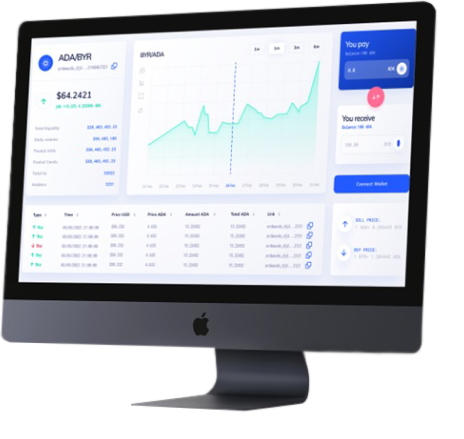
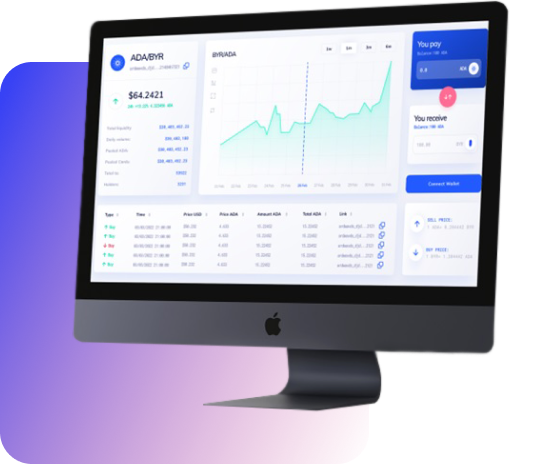
finishing website without backgrounds: Partenrs, StickyText, Footer

diff --git a/src/components/Footer.tsx b/src/components/Footer.tsx
@@ -1,0 +1,106 @@
+import React from 'react';
+import styled from 'styled-components';
+
+import fida from 'assets/logos/fida.png';
+import linkedin from 'assets/icons/socials/linkedin.png';
+import telegram from 'assets/icons/socials/telegram.png';
+import twitter from 'assets/icons/socials/twitter.png';
+import whatsApp from 'assets/icons/socials/whatsApp.png';
+import { menuItems } from 'data/menuItems';
+
+import { colors } from 'theme';
+
+import { MenuButton } from './MenuButton';
+import { Text } from './_common/Text';
+
+const socials = [{
+  src: twitter,
+  name: 'twitter',
+  link: '#'
+}, {
+  src: telegram,
+  name: 'telegram',
+  link: '#'
+}, {
+  src: linkedin,
+  name: 'linkedin',
+  link: '#'
+}, {
+  src: whatsApp,
+  name: 'whatsApp',
+  link: '#'
+}];
+
+const text = {
+  frida: '©Fida 2023'
+};
+
+export const Footer = () => {
+  const { iterableItems, joinCommunity } = menuItems;
+
+  return (
+    <FooterWrapper>
+      <LogoWrapper>
+        <img src={fida} alt="fida logo" />
+      </LogoWrapper>
+      <MenuButtonsWrapper>
+        <IterableButtonsWrapper>
+          {iterableItems.map(({ label, link }) => (
+            <div className="mr-5 flex align-items-center">
+              <StyledLink href={link}>
+                <Text size={16} label={label} fontWeight={700} toUpperCase />
+              </StyledLink>
+            </div>
+          ))}
+        </IterableButtonsWrapper>
+        <MenuButton label={joinCommunity.label} link={joinCommunity.link} backgroundColor={colors.textGradient} />
+      </MenuButtonsWrapper>
+      <SocialsWrapper>
+        {socials.map(({ name, link, src }) => (
+          <div className="mr-5">
+            <a href={link}>
+              <img src={src} alt={name} />
+            </a>
+          </div>
+        ))}
+      </SocialsWrapper>
+      <RadiantBar />
+      <div className="pb-5">
+        <Text size={14} label={text.frida} fontWeight={400} />
+      </div>
+    </FooterWrapper>
+  );
+};
+
+const FooterWrapper = styled.div`
+    display: flex;
+    padding: 0 30px;
+    flex-direction: column;
+    max-width: 80%;
+    margin: 0 auto;
+`;
+const LogoWrapper = styled.div`
+    margin-bottom: 24px;
+`;
+const MenuButtonsWrapper = styled.div`
+    display: flex;
+    justify-content: space-between;
+    margin-bottom: 34px;
+`;
+const IterableButtonsWrapper = styled.div`
+    display: flex;
+    
+`;
+const StyledLink = styled.a`
+    text-decoration: none;
+`;
+const SocialsWrapper = styled.div`
+    display: flex;
+    margin-bottom: 18px;
+`;
+const RadiantBar = styled.div`
+    width: 100%;
+    margin: 0 auto 24px 0;
+    height: 2px;
+    background: ${colors.textGradient};
+`;

diff --git a/src/components/MenuButton.tsx b/src/components/MenuButton.tsx
@@ -1,4 +1,4 @@
-import React from 'react';
+import React, { CSSProperties } from 'react';
 import styled from 'styled-components';
 
 import { colors } from 'theme';
@@ -10,14 +10,15 @@ interface Props extends StyledProps {
   link: string;
 }
 interface StyledProps {
-  color?: string;
+  color?: CSSProperties['color'];
   border?: boolean;
+  backgroundColor?: CSSProperties['backgroundColor']
 }
 
 export const MenuButton = (props: Props) => {
-  const { label, color, border, link } = props;
+  const { label, color, backgroundColor, border, link } = props;
   return (
-    <StyledMenuButton border={border}>
+    <StyledMenuButton backgroundColor={backgroundColor} border={border}>
       <StyledLink href={link}>
         <Text size={16} color={color} label={label} fontWeight={700} toUpperCase />
       </StyledLink>
@@ -26,17 +27,19 @@ export const MenuButton = (props: Props) => {
 };
 
 const StyledMenuButton = styled.button<StyledProps>`
-    padding: 5px 10px;
-    line-height: '100%';
+    margin: 5px 10px;
     background: none;
+    text-align: left;
     color: ${({ color }) => (color || colors.white)};
+    background: ${({ backgroundColor }) => (backgroundColor || 'unset')};
     border: ${({ border, color }) => (border ? `1px solid ${color || colors.white}` : 'none')};
-    border-radius: ${({ border }) => (border ? '25px' : 'none')};
+    border-radius: 25px;
 `;
 const StyledLink = styled.a`
+    display: inline-block;
     font-size: 16px;
-    margin: 0 34px;
+    padding: 5px 34px;
+    box-sizing: border-box;
     color: ${({ color }) => (color || colors.white)};
-    text-decoration: none;
-    
+    text-decoration: none;   
 `;

diff --git a/src/components/Partners.tsx b/src/components/Partners.tsx
@@ -1,0 +1,47 @@
+import React from 'react';
+import styled from 'styled-components';
+
+import { StyledGenericWrapper } from 'styledParts/StyledGenericWrapper';
+import { colors } from 'theme';
+
+import questGates from 'assets/logos/questGates.png';
+import sompo from 'assets/logos/sompo.png';
+import superscript from 'assets/logos/superscript.png';
+import { Text } from './_common/Text';
+
+const assets = {
+  titleOne: 'OUR PARTNERS & INVESTORS',
+  logos: [superscript, questGates, sompo]
+};
+
+export const Partners = () => (
+  <StyledGenericWrapper marginBottom={150}>
+    <div className="mb-5">
+      <Text size={60} label={assets.titleOne} fontWeight={700} toUpperCase />
+    </div>
+    <SponsorsWrapper>
+      {assets.logos.map(logo => (
+        <SponsorWrapper>
+          <img src={logo} alt={logo} />
+        </SponsorWrapper>
+      ))}
+    </SponsorsWrapper>
+  </StyledGenericWrapper>
+);
+
+const SponsorsWrapper = styled.div`
+    max-width: 80%;
+    margin: 0 auto;
+    display: flex;
+    justify-content: space-around;
+    flex-wrap: wrap;
+    background-color: ${colors.white};
+    border-radius: 25px;
+    padding: 40px 100px;
+`;
+const SponsorWrapper = styled.div`
+    display: flex;
+    justify-content: center;
+    align-items: center;
+    margin: 0 20px;
+`;

diff --git a/src/components/SecurityProtocol.tsx b/src/components/SecurityProtocol.tsx
@@ -2,8 +2,6 @@ import React from 'react';
 import styled from 'styled-components';
 
 import { StyledGenericWrapper } from 'styledParts/StyledGenericWrapper';
-import { colors } from 'theme';
-import { MenuButton } from './MenuButton';
 
 import { Text } from './_common/Text';
 
@@ -13,21 +11,22 @@ const text = {
 };
 
 export const SecurityProtocol = () => (
-  <StyledGenericWrapper maxWidth={870} marginBottom={0}>
+  <StyledGenericWrapper maxWidth={870} marginBottom={220}>
     <StyledGenericWrapper maxWidth={850} marginBottom={35}>
       <Text size={32} textPlacing="center" label={text.titleOne} fontWeight={700} />
     </StyledGenericWrapper>
-    <StyledButton type="button">
+    <StyledLink href="#">
       <Text size={16} label={text.buttonTitle} color="black" fontWeight={700} />
-    </StyledButton>
+    </StyledLink>
   </StyledGenericWrapper>
 );
 
-const StyledButton = styled.button`
+const StyledLink = styled.a`
+    display: block;
     padding: 4px 18px;
     font-weight: 700;
     border-radius: 25px;
+    text-decoration: none;
     cursor: pointer;
-    background-color: 'black';
-    color: 'white';
+    background-color: white;
 `;

diff --git a/src/components/Header.tsx b/src/components/Header.tsx
@@ -1,34 +1,17 @@
 import React from 'react';
 import styled from 'styled-components';
-import logo from 'assets/icons/fidaLogo.png';
+
+import logo from 'assets/logos/fida.png';
+import { menuItems } from 'data/menuItems';
+
 import { MenuButton } from './MenuButton';
-
-// interface Props {
-
-// }
-
-const menuItems = [
-  {
-    label: 'home',
-    link: '#'
-  },
-  {
-    label: 'whitepaper',
-    link: '#'
-  },
-  {
-    label: 'invest deck',
-    link: '#'
-  },
-
-];
 
 export const Header = () => (
   <StyledHeader>
     <img src={logo} alt="fida logo" />
     <div className="flex">
-      {menuItems.map(({ label, link }) => <MenuButton key={label} label={label} link={link} />)}
-      <MenuButton label="join our community" link="#" border />
+      {menuItems.iterableItems.map(({ label, link }) => <MenuButton key={label} label={label} link={link} />)}
+      <MenuButton label={menuItems.joinCommunity.label} link={menuItems.joinCommunity.link} border />
     </div>
   </StyledHeader>
 );

diff --git a/src/components/StickyOverlappingSections.tsx b/src/components/StickyOverlappingSections.tsx
@@ -29,21 +29,21 @@ const texts = {
 export const StickyOverlappingSections = () => (
   <StyledGenericWrapper marginBottom={100}>
     <StickySection>
-      <StyledGradientBackground height={512}>
-        <img src={laptop} height="480" alt="laptop" />
-      </StyledGradientBackground>
+      <div>
+        <img src={laptop} height="496" alt="laptop" />
+      </div>
       <TextSticky textData={texts.setOne} />
     </StickySection>
     <StickySection>
-      <StyledGradientBackground height={402}>
+      <div>
         <img src={phone} height="546" alt="phone" />
-      </StyledGradientBackground>
+      </div>
       <TextSticky textData={texts.setTwo} />
     </StickySection>
     <StickySection>
-      <StyledGradientBackground height={402}>
+      <div>
         <img src={screen} height="438" alt="screen" />
-      </StyledGradientBackground>
+      </div>
       <TextSticky textData={texts.setThree} />
     </StickySection>
   </StyledGenericWrapper>

diff --git a/src/components/App.tsx b/src/components/App.tsx
@@ -2,9 +2,11 @@ import React from 'react';
 import styled from 'styled-components';
 
 import { Description } from './Description';
+import { Footer } from './Footer';
 import { Header } from './Header';
 import { JoinCommunity } from './JoinCommunity';
 import { KeepingSecure } from './KeepingSecure';
+import { Partners } from './Partners';
 import { SafetyInfo } from './SafetyInfo';
 import { SecurityProtocol } from './SecurityProtocol';
 import { SignUpBelow } from './SignUpBelow';
@@ -26,6 +28,8 @@ const App = () => {
       <KeepingSecure />
       <SafetyInfo />
       <SecurityProtocol />
+      <Partners />
+      <Footer />
     </MainWrapper>
   );
 };

diff --git a/src/components/_common/TextSticky.tsx b/src/components/_common/TextSticky.tsx
@@ -19,7 +19,7 @@ export const TextSticky = ({ textData }: Props) => {
       <div>
         {titleTexts.map((text, index) => (index === highlightIndex
           ? <Text key={text} size={32} label={text} color={colors.textGradient} fontWeight={700} linearGradient />
-          : <Text key={text} size={32} label={text} />))}
+          : <Text key={text} size={32} label={text} fontWeight={400} />))}
       </div>
       { descriptionText && (
       <div className="mt-3">

diff --git a/src/styledParts/StickySection.tsx b/src/styledParts/StickySection.tsx
@@ -16,11 +16,12 @@ export const StickySection = ({ children }: StyledSectionProps) => (
 
 const StickyWrapper = styled.section<StyledSectionProps>`
     position: sticky;
-    margin: 40px;
+    margin: 40px auto;
     position: -webkit-sticky;
     top: 0;
+    max-width: 1240px;
     height: 90vh;
-    width: 100vw;
+    width: 90%;
     background: ${colors.textGradient};
     padding: 3px;
     display: flex;

diff --git a/src/data/menuItems.ts b/src/data/menuItems.ts
@@ -1,0 +1,20 @@
+export const menuItems = {
+  iterableItems: [
+    {
+      label: 'home',
+      link: '#'
+    },
+    {
+      label: 'whitepaper',
+      link: '#'
+    },
+    {
+      label: 'invest deck',
+      link: '#'
+    },
+  ],
+  joinCommunity: {
+    label: 'join our community',
+    link: '#'
+  }
+};
